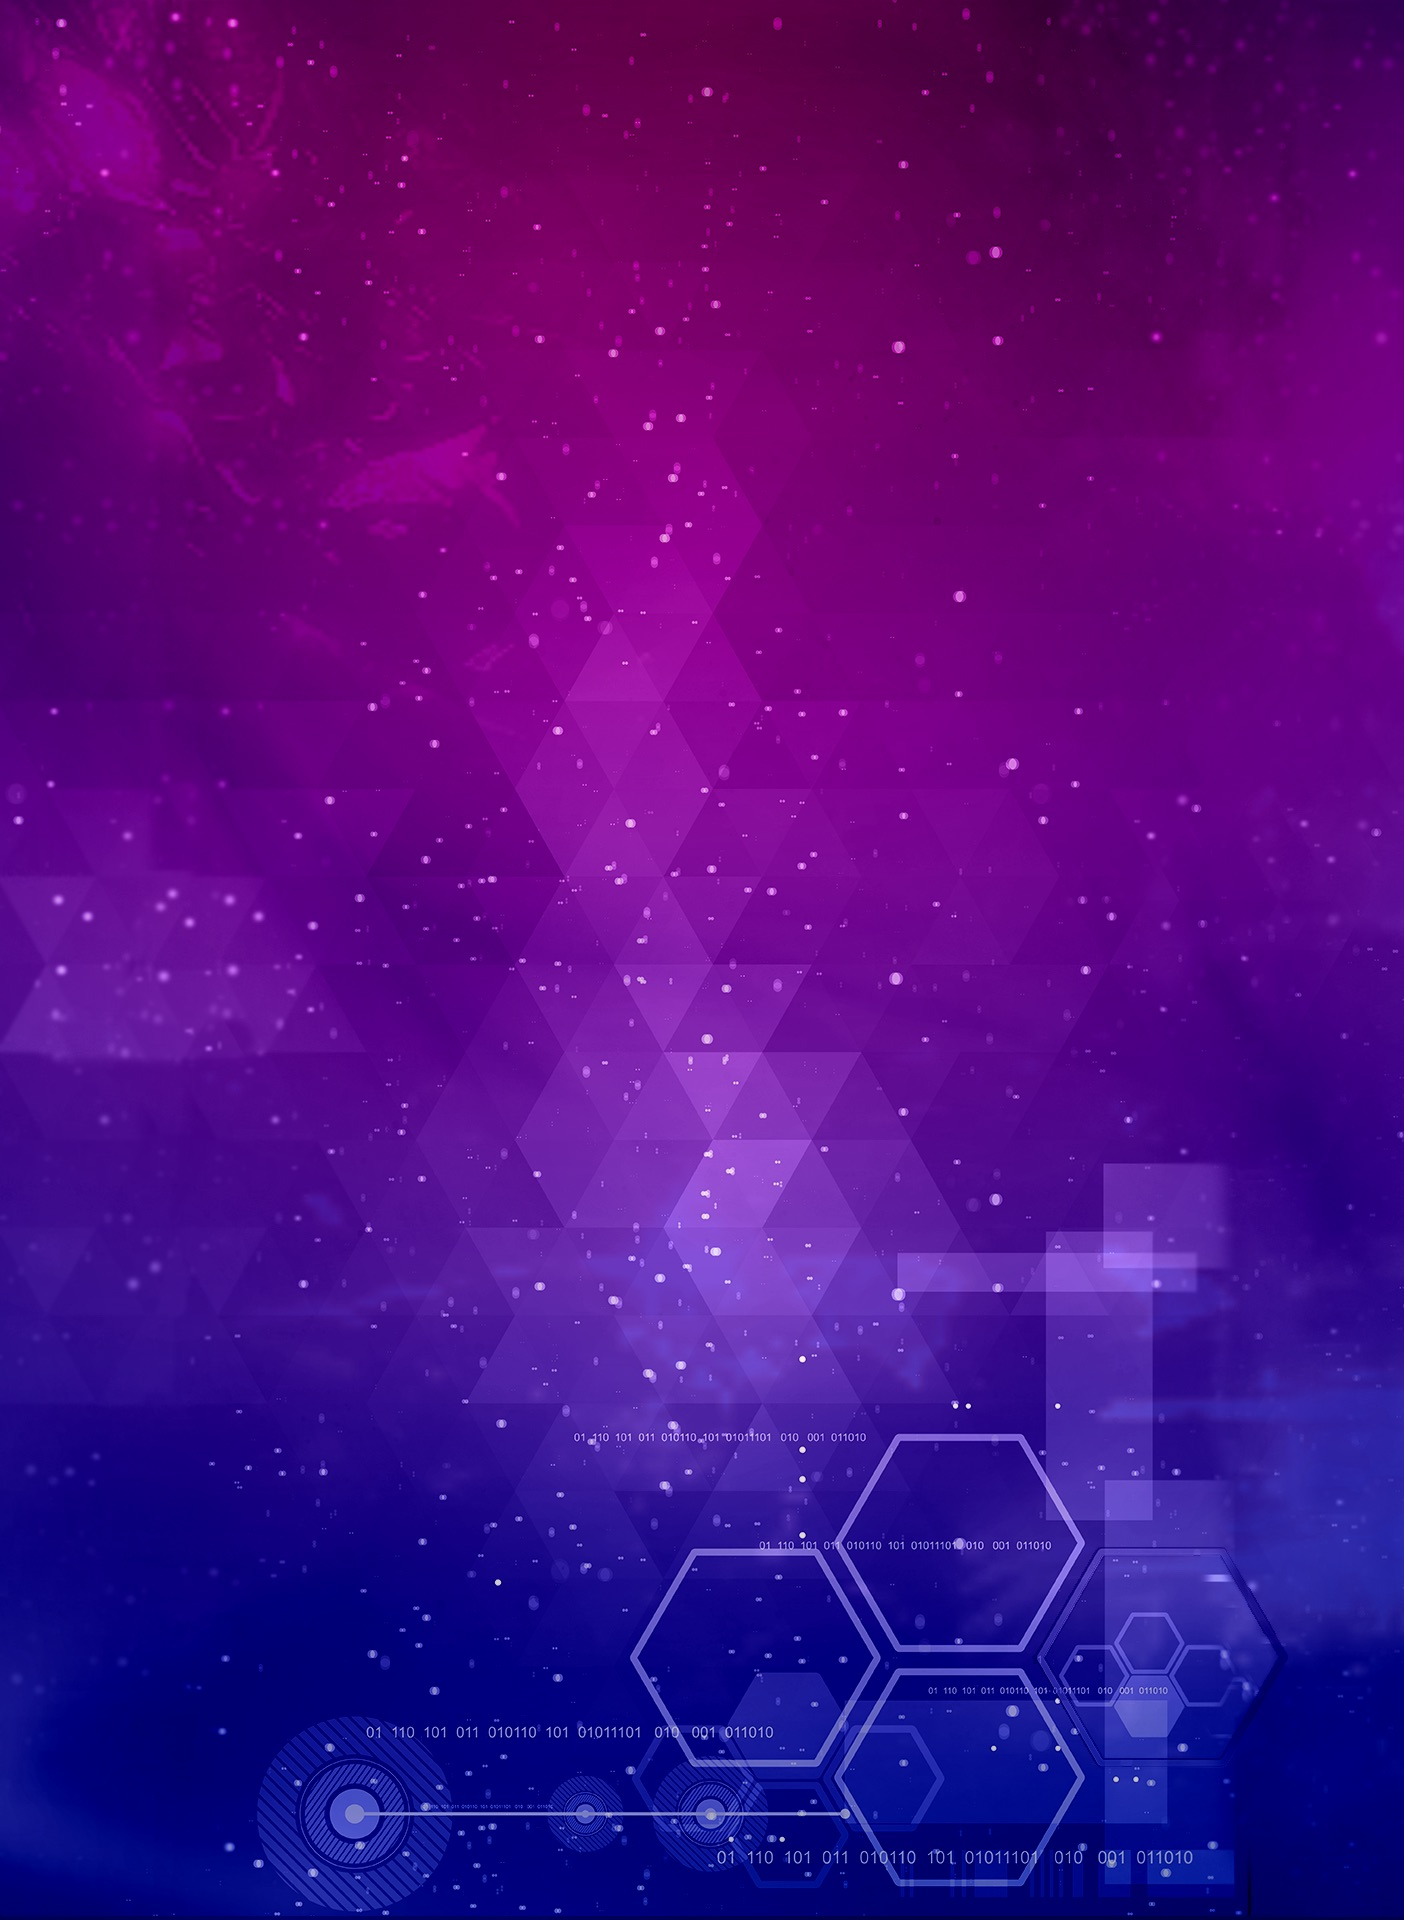
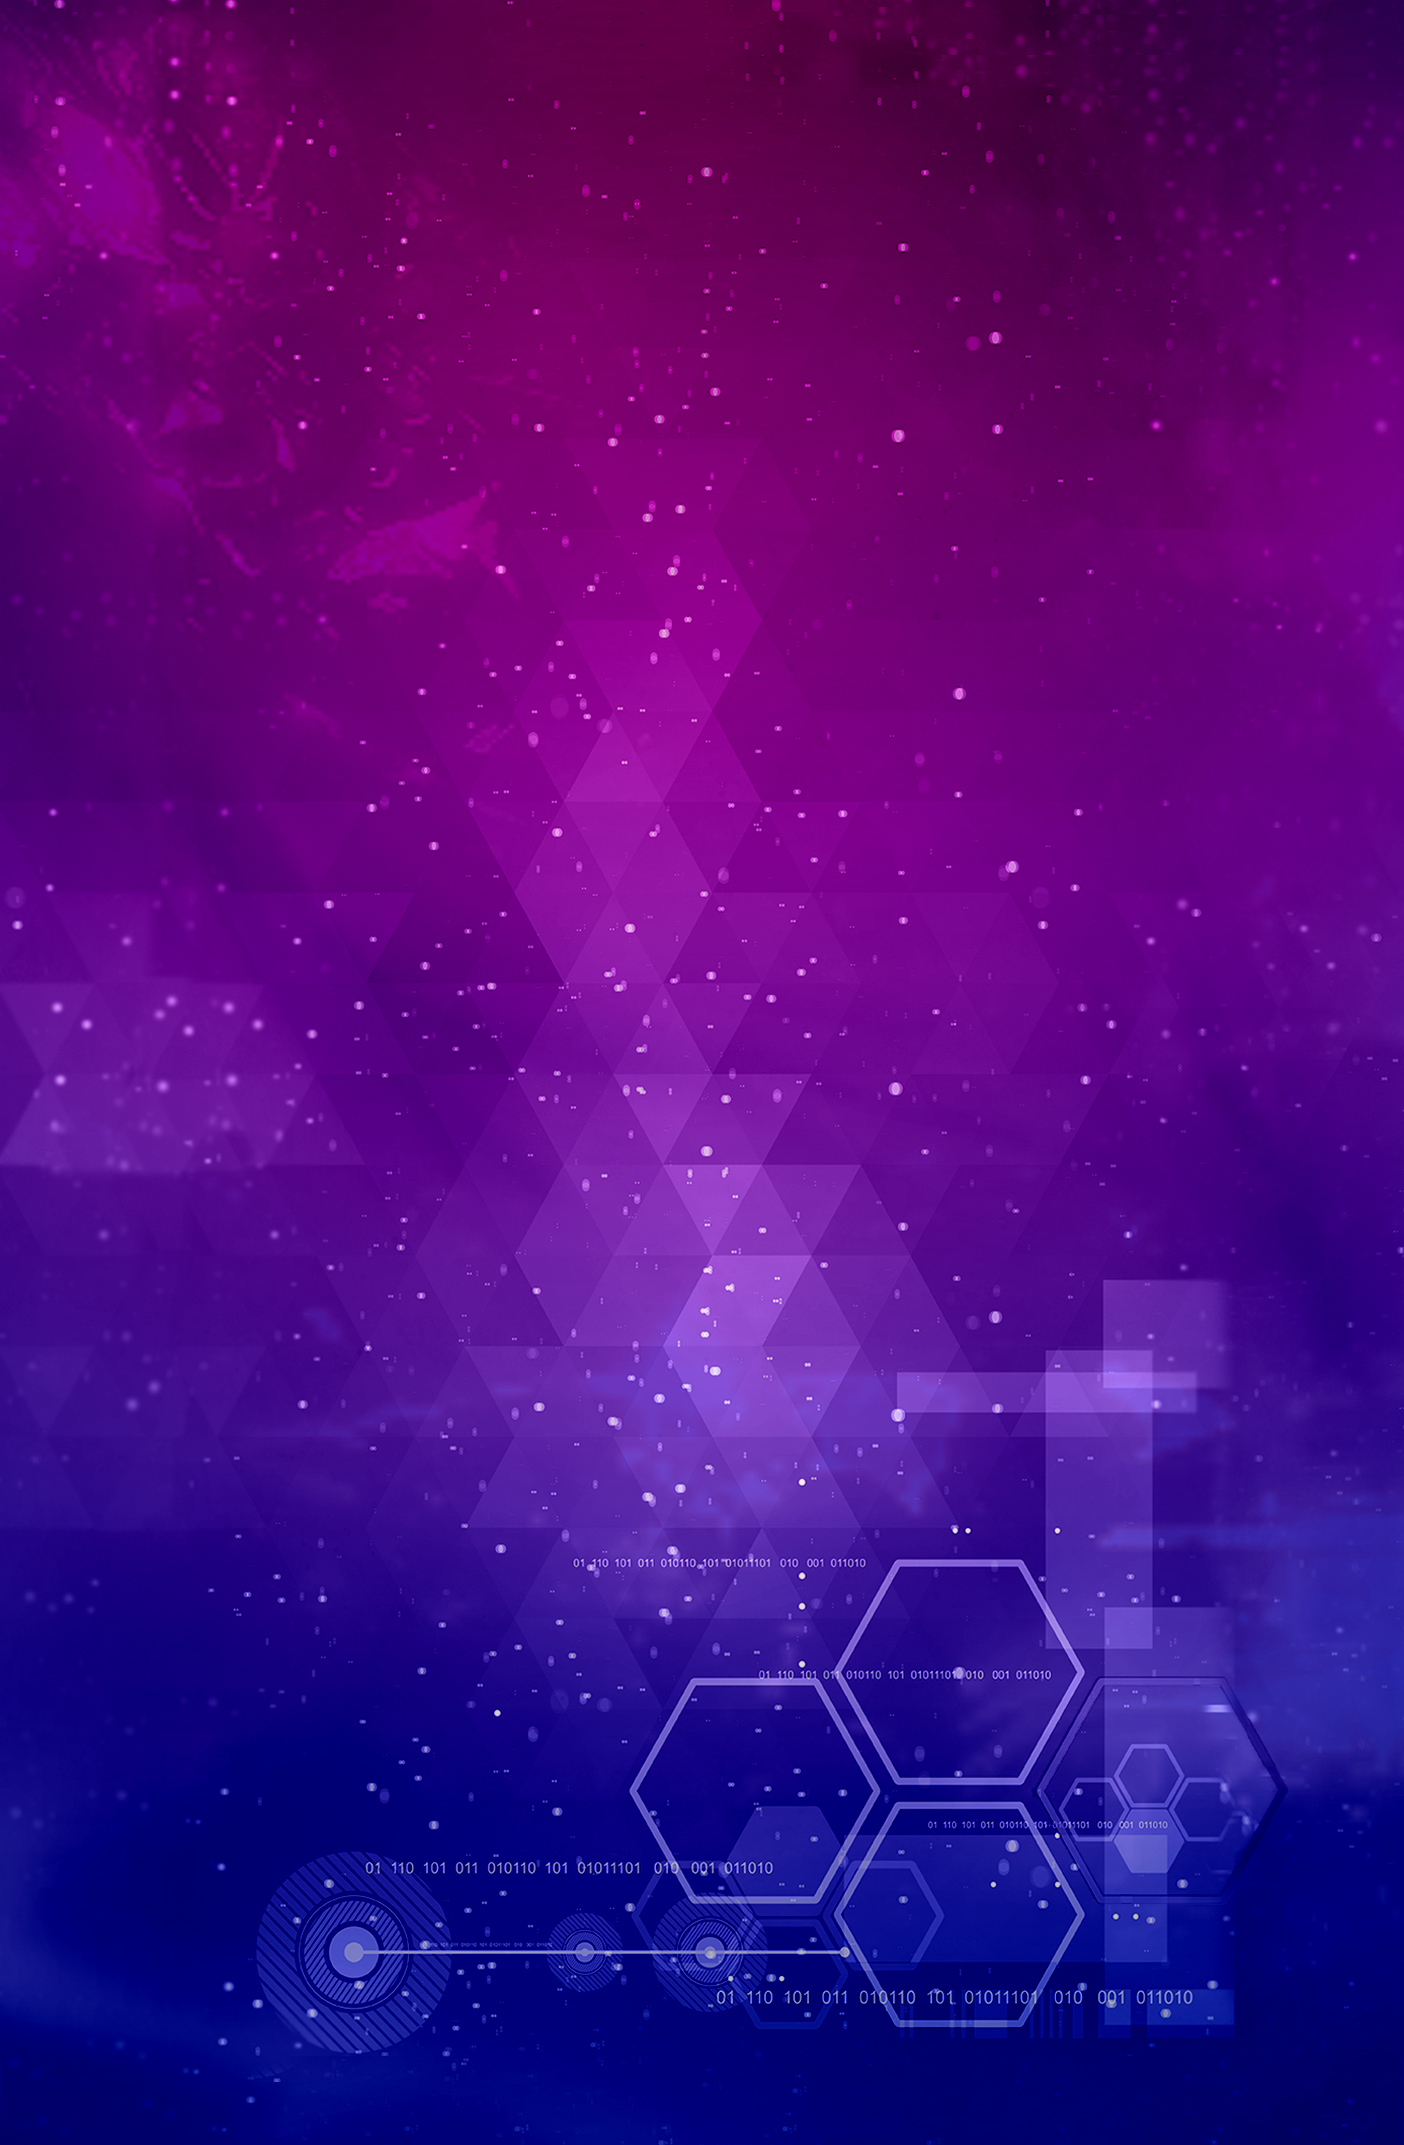
Update assets

diff --git a/style/main.less b/style/main.less
@@ -5,7 +5,7 @@
   padding: 0;
 }
 body{
-  background-image: url(../images/fill.jpg);
+  background-color: black;
 }
 .section {
   position: relative;
@@ -49,8 +49,8 @@ body{
   position: relative;
   display: block;
   width: 130%;
-  height: 100%;
-  // top: -15%;
+  height: 111%;
+  top: -6.5%;
   left: -15%;
   content: url(../images/bg.jpg);
   -webkit-transition: all 0.2s;
@@ -60,6 +60,20 @@ body{
   transition: all 0.2s;
 }
 .container {
+  position: relative;
+  height: 100vh;
+  width: 56.3vh;
+  margin: auto;
+  top: 0;
+  bottom: 0;
+  /* vertical center */
+  left: 0;
+  right: 0;
+  /* horizontal center */
+  overflow: hidden;
+  z-index: 1;
+}
+.sub-container {
   position: relative;
   height: 100vh;
   width: 56.3vh;

diff --git a/main.html b/main.html
@@ -56,7 +56,7 @@
 				</div>
 
 				<div class="slide">
-					<div class="container scene-1">
+					<div class="sub-container scene-1">
 						<img class="text" />
 						<img class="right-hand" />
 						<img class="left-hand" />
@@ -65,7 +65,7 @@
 					</div>
 				</div>
 				<div class="slide">
-					<div class="container scene-2">
+					<div class="sub-container scene-2">
 						<img class="text" />
 						<img class="right-hand" />
 						<img class="left-hand" />
@@ -75,7 +75,7 @@
 					</div>
 				</div>
 				<div class="slide">
-					<div class="container scene-3">
+					<div class="sub-container scene-3">
 						<img class="text" />
 						<img class="right-hand" />
 						<img class="left-hand" />

diff --git a/app/app.js b/app/app.js
@@ -106,6 +106,6 @@ window.ondeviceorientation = function(event) {
   var beta = Math.round(event.beta)
   var direction = Math.round(event.alpha)
 
-  // $("#parallax_background").css("margin-top", Math.round(beta / 2) + "px")
-  $("#parallax_background").css("margin-left", Math.round(gamma / 2) + "px")
+  $("#parallax_background").css("margin-top", Math.round(beta / 4) + "px")
+  $("#parallax_background").css("margin-left", Math.round(gamma / 4) + "px")
 }

diff --git a/style/pages.less b/style/pages.less
@@ -1,6 +1,6 @@
 #intro-page {
   #logo {
-    content: url(../images/intro/logo.png);
+    content: url(../images/logo.png);
   }
   #seperator_top {
     content: url(../images/intro/seperator_top.png);
@@ -303,7 +303,7 @@ left: 62%
 }
 #end-page {
   #logo {
-    content: url(../images/end/logo.png);
+    content: url(../images/logo.png);
   }
   #seperator_bottom {
     content: url(../images/end/seperator_bottom.png);
